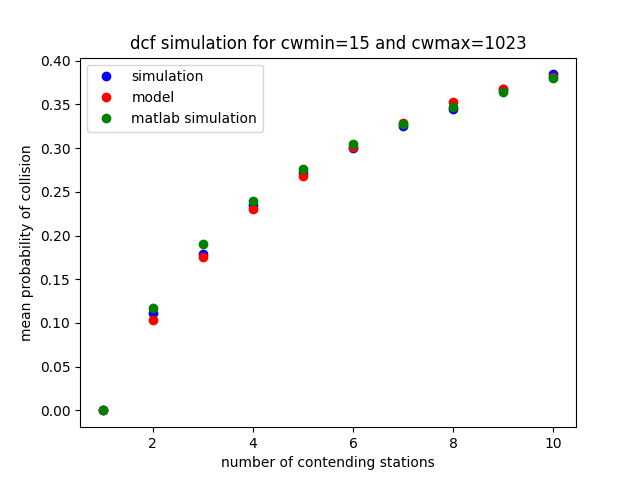
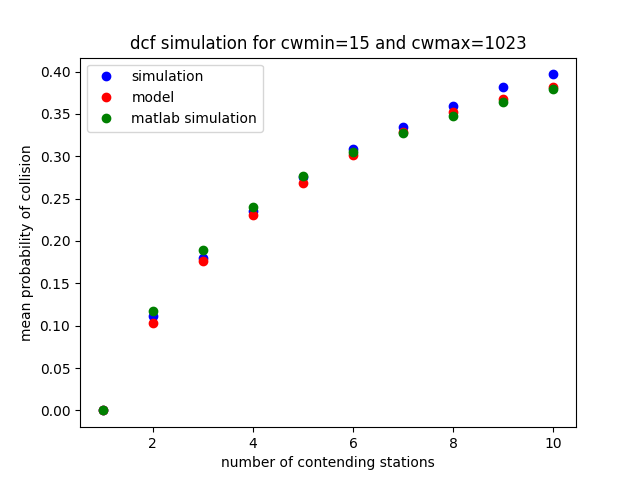
retry counter added, function to calculate the time of single contention round added

diff --git a/simulation.py b/simulation.py
@@ -1,26 +1,34 @@
 import numpy as np
+import math
 
-def dcf_simulation(N, cw_min, cw_max, seed):
+def dcf_simulation(N, cw_min, cw_max, seed, data_rate = 54, control_rate = 6, mac_payload = 2304):
     """Simulates DCF function as method of multiple access in 802.11 network
     and returns mean probability of colliosion per station
 
     Arguments:
-        N {int} -- number of stations contending for the wireless medium
-        cw_min {int} -- value of CWmin of BEB algorithm
-        cw_max {int} -- value of CWmax of BEB algorithm
-        seed -- seed for the numpy random generator, allowing to reproduce the simulation
+        N (int): number of stations contending for the wireless medium
+        cw_min (int): value of CWmin of BEB algorithm
+        cw_max (int): value of CWmax of BEB algorithm
+        seed (int): seed for the numpy random generator, allowing to reproduce the simulation
+        data_rate (int): rate at which data is transmitted in Mb/s (one of the defined in 802.11a standard)
+        control_rate (int): rate at which control data is transmitted in Mb/s
+        mac_payload (int): payload of MAC frame in B, maximally 2304B
         
         Values cw_min and cw_max should be the powers of 2 minus 1, i.e. 15, 31...1023
 
     Returns:
-        numpy.float64 -- mean probabilty of collision for station
+        numpy.float64: mean probabilty of collision for station
     """
 
     simulation_rounds  = 10000
+    retry_limit = 4
 
     successful = np.zeros(N)
     collisions = np.zeros(N)
+    retransmissions = np.zeros(N)
     cw = np.ones(N) * (cw_min + 1)
+
+    tx_time = np.zeros(simulation_rounds)
 
     np.random.seed(seed)
     backoffs = np.random.randint(low=0, high=cw_min+1, size=N)
@@ -31,15 +39,69 @@ def dcf_simulation(N, cw_min, cw_max, seed):
         backoffs = backoffs - min_backoff - 1
         if len(next_tx) == 1:
             successful[next_tx] +=1
+            retransmissions[next_tx] = 0
             cw[next_tx] = cw_min+1
             backoffs[next_tx] = np.random.randint(low=0, high=cw[next_tx])
         else:
             for tx in next_tx:
                 collisions[tx] +=1
-                cw[tx] = min(cw_max+1, cw[tx]*2)
+                if retransmissions[tx] <= retry_limit:
+                    retransmissions[tx] +=1
+                    cw[tx] = min(cw_max+1, cw[tx]*2)
+                else:
+                    retransmissions[tx] = 0
+                    cw[tx] = cw_min + 1
+                
                 backoffs[tx] = np.random.randint(low=0, high=cw[tx])
+        tx_time[round] = transmission_time(min_backoff, data_rate, control_rate, mac_payload)
 
-    collision_probability = np.array([collisions[sta]/(successful[sta] + collisions[sta]) for sta in range(N)])
+    collision_probability = collisions/(successful + collisions)
     mean_collision_probability = np.mean(collision_probability)
 
+    print(tx_time)
+
     return mean_collision_probability
+
+
+def transmission_time(backoff_slots, data_rate, control_rate, mac_payload):
+    """Calculates the time of single round of contention in dcf
+
+    Args:
+        backoff_slots (int): number of slots of backoff period in given round
+        data_rate (int): rate at which data is transmitted in Mb/s (one of the defined in 802.11a standard)
+        control_rate (int): rate at which control data is transmitted in Mb/s
+        mac_payload (int): payload of MAC frame in B, maximally 2304B
+    Returns:
+        int: time of single round of contention in slots
+    """
+
+    #dictionary: (data rate, bits per symbol)
+    bits_per_symbol = dict([(6, 48), (9, 48), (12, 96), (18, 96), (24, 192), (36, 192), (48, 288), (54, 288)])
+
+    slot_duration = 9e-6 #s
+    sifs = 16e-6 #s
+    difs = sifs + 2 * slot_duration #s
+
+    ofdm_preamble = 16e-6 #s
+    ofdm_signal = 24 #bits
+    ofdm_signal_duration = ofdm_signal/(control_rate * 1e6) #s
+    service = 16 #bits
+    tail = 6 #bits
+    
+    
+    #ack frame
+    ack = 14*8 #bits
+    ack_duration = ofdm_preamble + ofdm_signal_duration + (service + ack + tail)/(control_rate * 1e6) #s  
+
+    #data frame
+    mac_header = 36*8 #bits
+    mac_tail = 4*8 #bits
+    mac_frame = mac_header + mac_payload*8 + mac_tail #bits
+    padding = math.ceil((service + mac_frame + tail)/bits_per_symbol[data_rate]) * bits_per_symbol[data_rate] - (service + mac_frame + tail) #bits
+
+    data_duration = ofdm_preamble + ofdm_signal_duration + (service + mac_frame + tail + padding)/(data_rate * 1e6) #s
+
+    tx_time = difs + data_duration + sifs + ack_duration #s
+    tx_time_slots = math.ceil(tx_time/slot_duration) + backoff_slots #slots
+
+    return tx_time_slots

diff --git a/run_simulation.py b/run_simulation.py
@@ -26,7 +26,7 @@ matlab_results = pd.read_csv('validation/results_matlab_ready.csv')
 p_coll_matlab = matlab_results[['N', 'p_coll_matlab']]
 
 simulation_results = simulation_results.merge(validation_p_coll, on='N')
-simulation_results= simulation_results.rename(columns={'p_coll':'p_coll_model'})
+simulation_results = simulation_results.rename(columns={'p_coll':'p_coll_model'})
 
 simulation_results.to_csv(f'results/simulation_results_{cw_min}_{cw_max}.csv')
 

diff --git a/test_times.py b/test_times.py
@@ -1,0 +1,5 @@
+from simulation import dcf_simulation
+
+p_coll = dcf_simulation(10, 15, 15, 3, 54, 6, 1472)
+
+print(p_coll)
